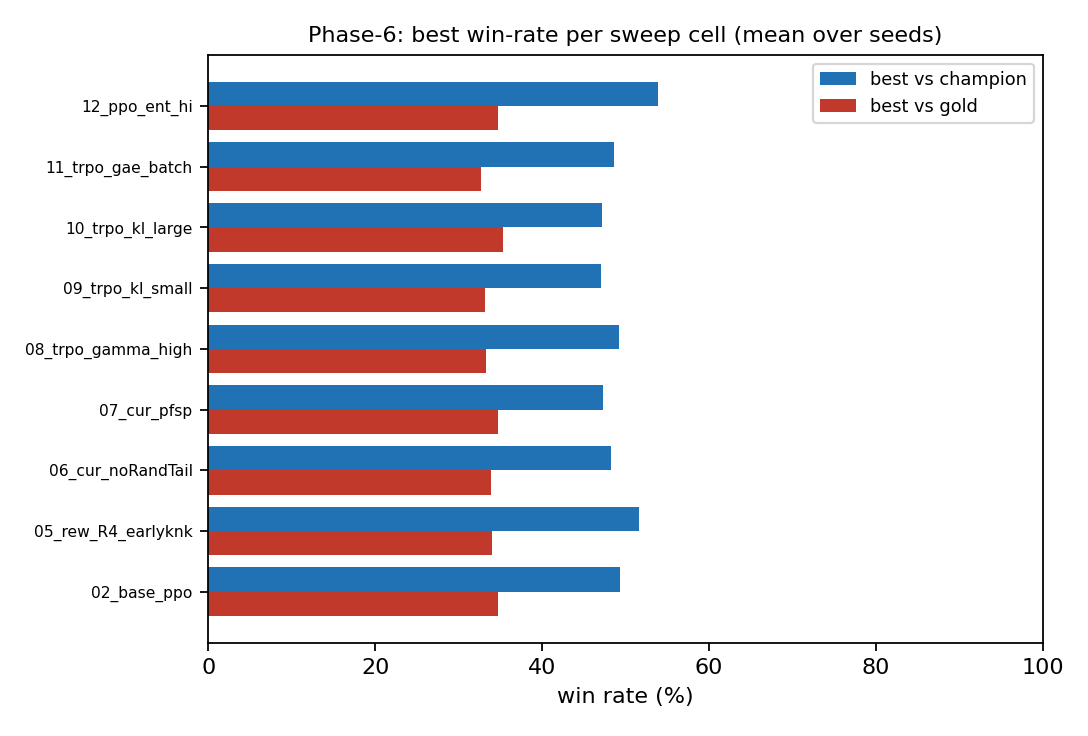
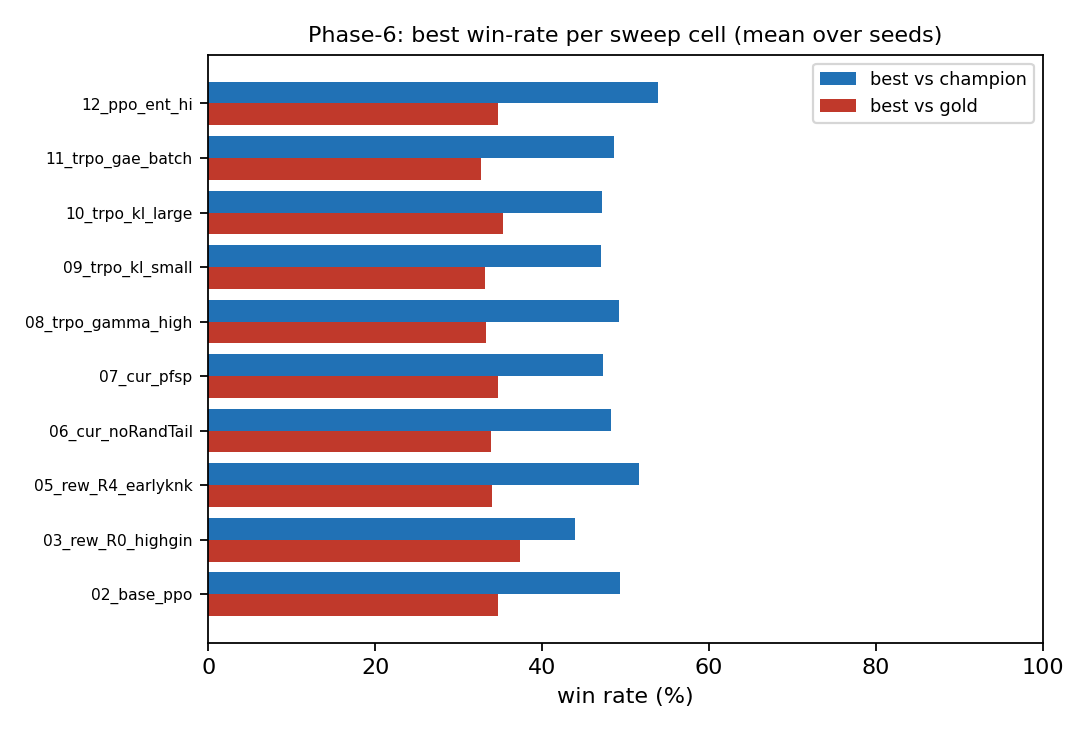
Phase-6 sweep: curriculum/algorithm/reward results + docs (2026-06-05T13:58Z)

Changed region(s): [[0.0312, 0.125, 0.5938, 0.7812], [0.0938, 0.7812, 0.1875, 0.8125]]

diff --git a/docs/index.html b/docs/index.html
@@ -398,7 +398,8 @@ ol li,ul li{margin:4px 0;}
   currently lose to more often).</p>
 
   <figure class="fig" style="max-width:560px;margin:0 auto;"><img src="https://raw.githubusercontent.com/Nikelroid/adversarial-coevolution/main/paper/figures/curriculum.png" alt="Phase-6 sweep" loading="lazy"/><figcaption>Best win-rate per cell (mean over seeds); fills in as runs land.</figcaption></figure>
-  <p>Top cells by win-rate vs the gold standard (12 shown):</p><table><tr><th>cell</th><th>algo</th><th>curriculum</th><th class="n">vs random</th><th class="n">vs champion</th><th class="n">vs gold</th><th class="n">gin% vs gold</th></tr><tr><td>05_rew_R4_earlyknk_s1</td><td>trpo</td><td>designed</td><td class="n">98.8</td><td class="n">49.4</td><td class="n"><b>32.8</b></td><td class="n">0.30</td></tr>
+  <p>Top cells by win-rate vs the gold standard (12 shown):</p><table><tr><th>cell</th><th>algo</th><th>curriculum</th><th class="n">vs random</th><th class="n">vs champion</th><th class="n">vs gold</th><th class="n">gin% vs gold</th></tr><tr><td>03_rew_R0_highgin_s0</td><td>trpo</td><td>designed</td><td class="n">99.0</td><td class="n">42.7</td><td class="n"><b>33.0</b></td><td class="n">0.50</td></tr>
+<tr><td>05_rew_R4_earlyknk_s1</td><td>trpo</td><td>designed</td><td class="n">98.8</td><td class="n">49.4</td><td class="n"><b>32.8</b></td><td class="n">0.30</td></tr>
 <tr><td>06_cur_noRandTail_s2</td><td>trpo</td><td>no_random_tail</td><td class="n">98.8</td><td class="n">46.0</td><td class="n"><b>32.8</b></td><td class="n">0.50</td></tr>
 <tr><td>09_trpo_kl_small_s1</td><td>trpo</td><td>designed</td><td class="n">98.4</td><td class="n">46.6</td><td class="n"><b>32.6</b></td><td class="n">0.30</td></tr>
 <tr><td>11_trpo_gae_batch_s1</td><td>trpo</td><td>designed</td><td class="n">98.8</td><td class="n">44.4</td><td class="n"><b>31.9</b></td><td class="n">0.70</td></tr>
@@ -408,8 +409,7 @@ ol li,ul li{margin:4px 0;}
 <tr><td>06_cur_noRandTail_s0</td><td>trpo</td><td>no_random_tail</td><td class="n">98.1</td><td class="n">45.0</td><td class="n"><b>31.4</b></td><td class="n">0.40</td></tr>
 <tr><td>02_base_ppo_s1</td><td>ppo</td><td>designed</td><td class="n">99.4</td><td class="n">46.4</td><td class="n"><b>31.0</b></td><td class="n">0.40</td></tr>
 <tr><td>10_trpo_kl_large_s1</td><td>trpo</td><td>designed</td><td class="n">98.0</td><td class="n">48.2</td><td class="n"><b>30.9</b></td><td class="n">0.40</td></tr>
-<tr><td>05_rew_R4_earlyknk_s2</td><td>trpo</td><td>designed</td><td class="n">98.8</td><td class="n">49.7</td><td class="n"><b>30.7</b></td><td class="n">0.10</td></tr>
-<tr><td>11_trpo_gae_batch_s0</td><td>trpo</td><td>designed</td><td class="n">98.0</td><td class="n">49.7</td><td class="n"><b>30.7</b></td><td class="n">0.70</td></tr></table>
+<tr><td>05_rew_R4_earlyknk_s2</td><td>trpo</td><td>designed</td><td class="n">98.8</td><td class="n">49.7</td><td class="n"><b>30.7</b></td><td class="n">0.10</td></tr></table>
   <p><b>How it runs.</b> 30 runs as a SLURM array; a self-sustaining watchdog resubmits any failed cell,
   re-aggregates the results, regenerates this page, and pushes &mdash; with no human in the loop &mdash;
   and every run streams to Weights &amp; Biases (<code>phase6-curriculum</code>). Gold stays